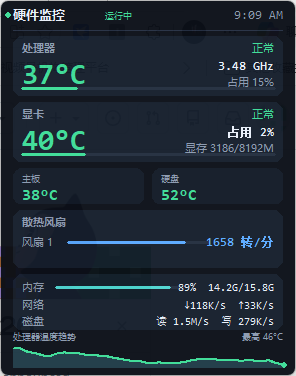
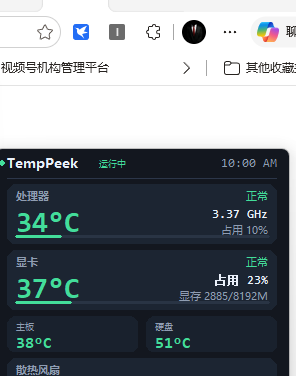
项目定名 TempPeek，统一品牌与仓库名
原名“硬件监控面板 / HWPanel”过于泛化，搜索时容易被同类项目淹没。
程序显示名、可执行文件、安装目录、单实例互斥量、配置文件
（~/.tempeek.json）与仓库名全部改为 TempPeek，避免用户装完之后
在开始菜单里找不到入口。

AppId 保持不变，老版本安装可通过升级覆盖，不会产生两份卸载记录。

diff --git a/tempeek.py b/tempeek.py
@@ -1,6 +1,6 @@
 # -*- coding: utf-8 -*-
 """
-hwpanel.py —— Windows 桌面硬件监控悬浮面板
+TempPeek —— Windows 桌面硬件监控悬浮面板
 
 针对本机 Dell G3 3590 (i7-9750H + GTX 1660 Ti Max-Q) 实测适配，其他机型可降级运行。
 
@@ -41,9 +41,9 @@ import threading
 import time
 import tkinter as tk
 
-APP_NAME = "硬件监控面板"
+APP_NAME = "TempPeek"
 APP_VER = "2.1"
-CFG_PATH = os.path.join(os.path.expanduser("~"), ".hwpanel.json")
+CFG_PATH = os.path.join(os.path.expanduser("~"), ".tempeek.json")
 CREATE_NO_WINDOW = 0x08000000
 
 
@@ -159,7 +159,7 @@ def relaunch_elevated():
 
 
 # ────────────────────── 单实例：双击两次只开一个面板 ──────────────────────
-_MUTEX_NAME = "HWPanel_SingleInstance_v1"
+_MUTEX_NAME = "TempPeek_SingleInstance_v1"
 _mutex_handle = None
 
 
@@ -841,7 +841,7 @@ class Panel:
         # 标题栏：状态点 / 标题 / 副标题 / 12 小时制时钟
         self.it["dot"] = cv.create_oval(P - 8, 12, P - 3, 17,
                                         fill=C["green"], outline="")
-        self._text(P, 14, "硬件监控", fill=C["text"], font=self.F_TITLE)
+        self._text(P, 14, "TempPeek", fill=C["text"], font=self.F_TITLE)
         self.it["hdr_state"] = self._text(
             P + 92, 15, "", fill=C["faint"], font=self.F_TINY)
         self.it["clock"] = cv.create_text(

diff --git a/tools/lhm/sensors.cs b/tools/lhm/sensors.cs
@@ -1,5 +1,5 @@
 // sensors.exe —— LibreHardwareMonitor 采样助手
-// 由 hwpanel.py 以管理员身份拉起，stdout 每秒输出一行 JSON。
+// 由 tempeek.py 以管理员身份拉起，stdout 每秒输出一行 JSON。
 // 需要系统已安装 PawnIO（https://pawnio.eu）才能读取 Intel CPU MSR 与主板 Super I/O。
 using System;
 using System.Collections.Generic;

diff --git a/packaging/make_icon.py b/packaging/make_icon.py
@@ -1,5 +1,5 @@
 # -*- coding: utf-8 -*-
-"""生成 HWPanel 应用图标（packaging/icon.ico）。"""
+"""生成 TempPeek 应用图标（packaging/icon.ico）。"""
 import math
 import os
 

diff --git a/SECURITY.md b/SECURITY.md
@@ -2,7 +2,7 @@
 
 ## 当前范围
 
-硬件监控面板只做一件事：读取本机硬件传感器并显示。它不含网络监听、不含远程代码执行、不含权限提升逻辑之外的功能。唯一涉及系统改动的部分是**可选**安装的 [PawnIO](https://github.com/namazso/PawnIO) 内核驱动，由上游官方安装器完成，本仓库不修改也不重新打包该驱动。
+TempPeek 只做一件事：读取本机硬件传感器并显示。它不含网络监听、不含远程代码执行、不含权限提升逻辑之外的功能。唯一涉及系统改动的部分是**可选**安装的 [PawnIO](https://github.com/namazso/PawnIO) 内核驱动，由上游官方安装器完成，本仓库不修改也不重新打包该驱动。
 
 程序需要管理员权限，仅因为读取 CPU MSR 与主板 Super I/O 需要；这一点在 README 与安装包界面里都有说明。
 
@@ -23,4 +23,4 @@
 
 ## 需要注意的仿冒风险
 
-本项目的安装包只发布在 [Releases](https://github.com/XiaoShips/hwpanel/releases)。任何声称是“官网”“网盘版”“绿色优化版”的第三方来源都不受信任——一个包含内核驱动的安装包被替换后危害很大，请只从上面这个地址下载，并核对 Release 页标注的文件大小与版本。
+本项目的安装包只发布在 [Releases](https://github.com/XiaoShips/tempeek/releases)。任何声称是“官网”“网盘版”“绿色优化版”的第三方来源都不受信任——一个包含内核驱动的安装包被替换后危害很大，请只从上面这个地址下载，并核对 Release 页标注的文件大小与版本。

diff --git a/CHANGELOG.md b/CHANGELOG.md
@@ -14,6 +14,7 @@
 
 ### 变更
 
+- 项目定名 **TempPeek**：程序名、可执行文件、安装目录、配置文件（`%USERPROFILE%\.tempeek.json`）与仓库名统一
 - 风扇一栏只列出真正接线的转速接口，未接线的 Super I/O 输入口不再占用显示位
 - 状态判定放宽：核显机器无 GPU 温度、无风扇机器无转速不再误报“部分数据不可用”
 - 打包为 PyInstaller onedir，脱离本机 Python 环境运行
